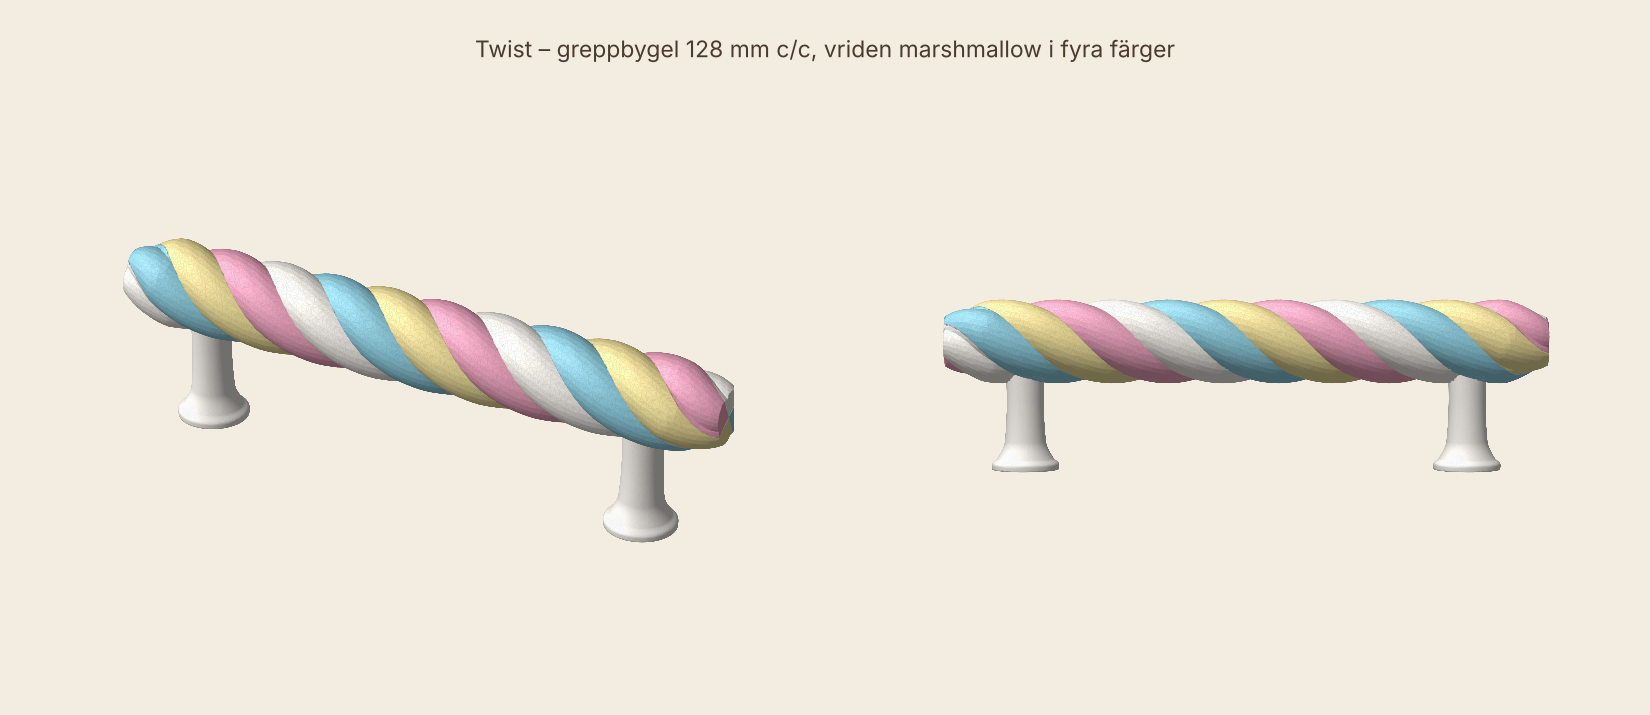
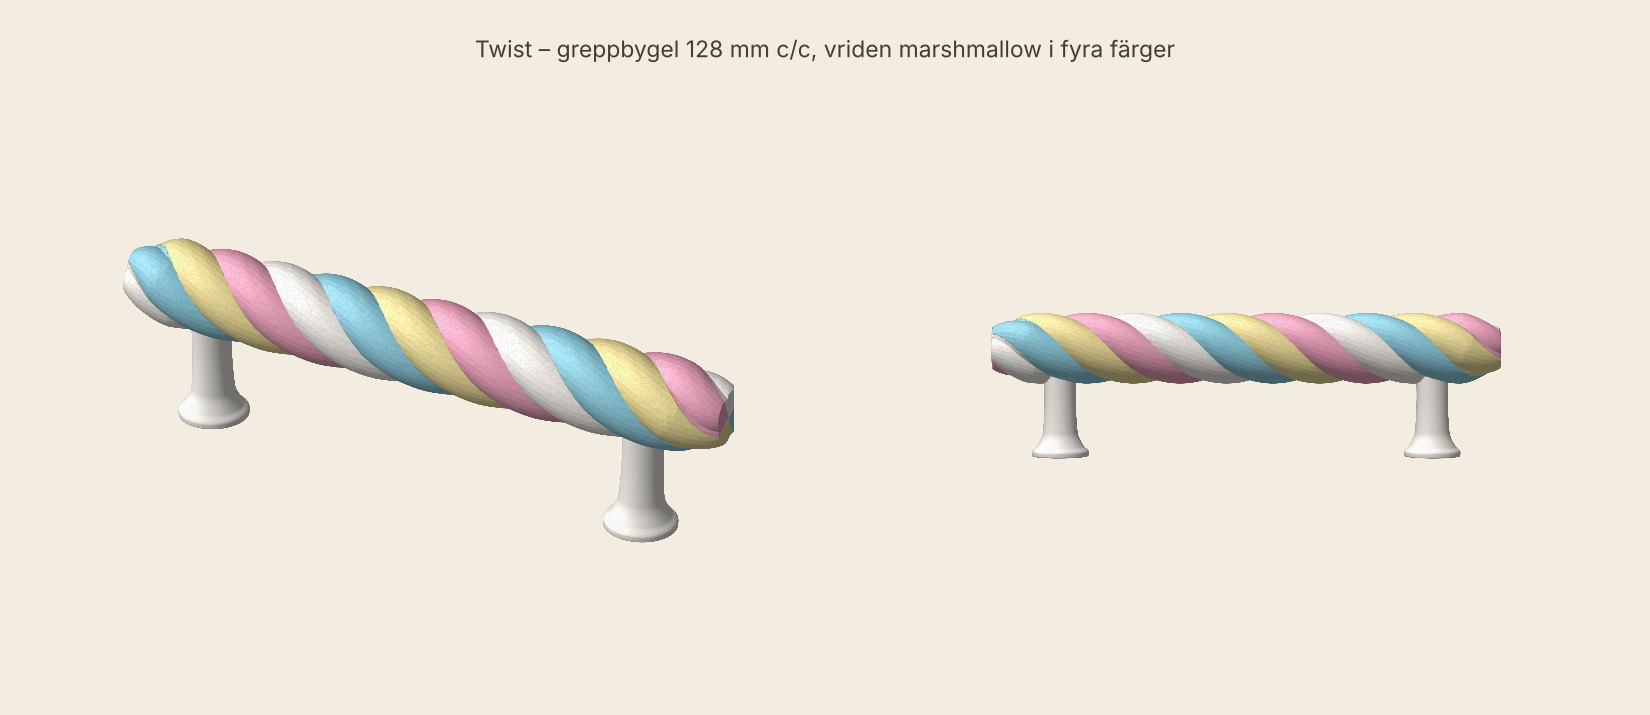
Twist: framvyn i twist.png får plats i bild
Claude-Session: https://claude.ai/code/session_012QWMUGJ6ZKXJtCgXam1MpE

Changed region(s): [[0.5564, 0.4, 0.9582, 0.6769]]

diff --git a/handtag/visa.py b/handtag/visa.py
@@ -55,7 +55,7 @@ def main():
 def rita_twist():
     fig = plt.figure(figsize=(15, 6.5), facecolor=BAKGRUND)
     delar = [trimesh.load(os.path.join(MAPP, "twist", f"{k}.stl")) for k in TWIST]
-    for i, (elev, azim, zoom) in enumerate(((28, -62, 1.05), (4, -90, 0.95))):
+    for i, (elev, azim, zoom) in enumerate(((28, -62, 1.05), (4, -90, 0.8))):
         ax = fig.add_axes([0.5 * i, 0, 0.5, 0.9], projection="3d")
         rita(ax, delar, list(TWIST.values()), zoom, elev, azim)
     fig.text(0.5, 0.92, "Twist – greppbygel 128 mm c/c, vriden marshmallow i fyra färger",
